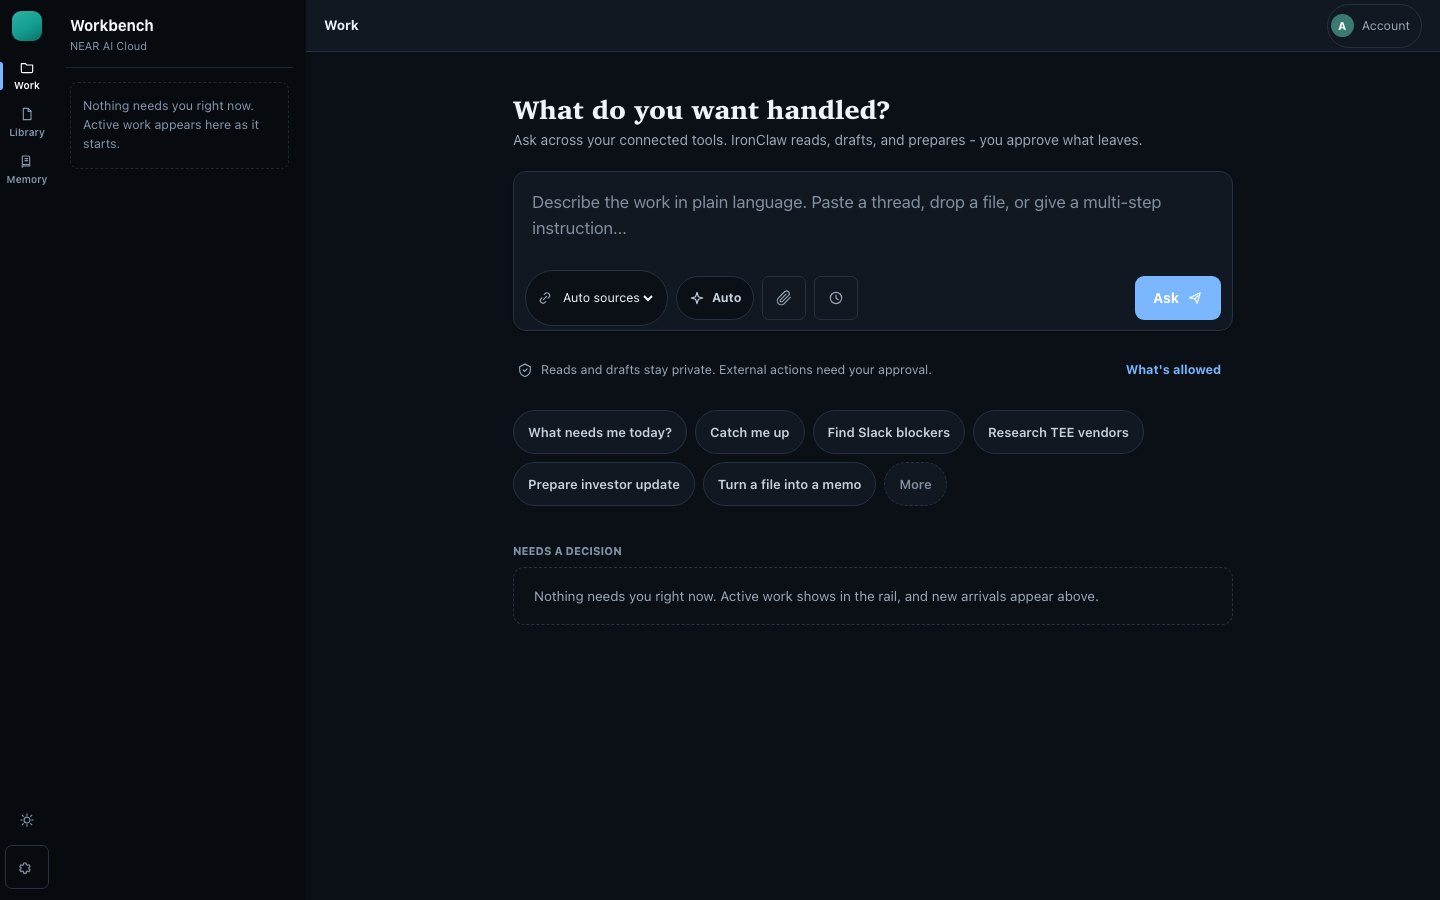
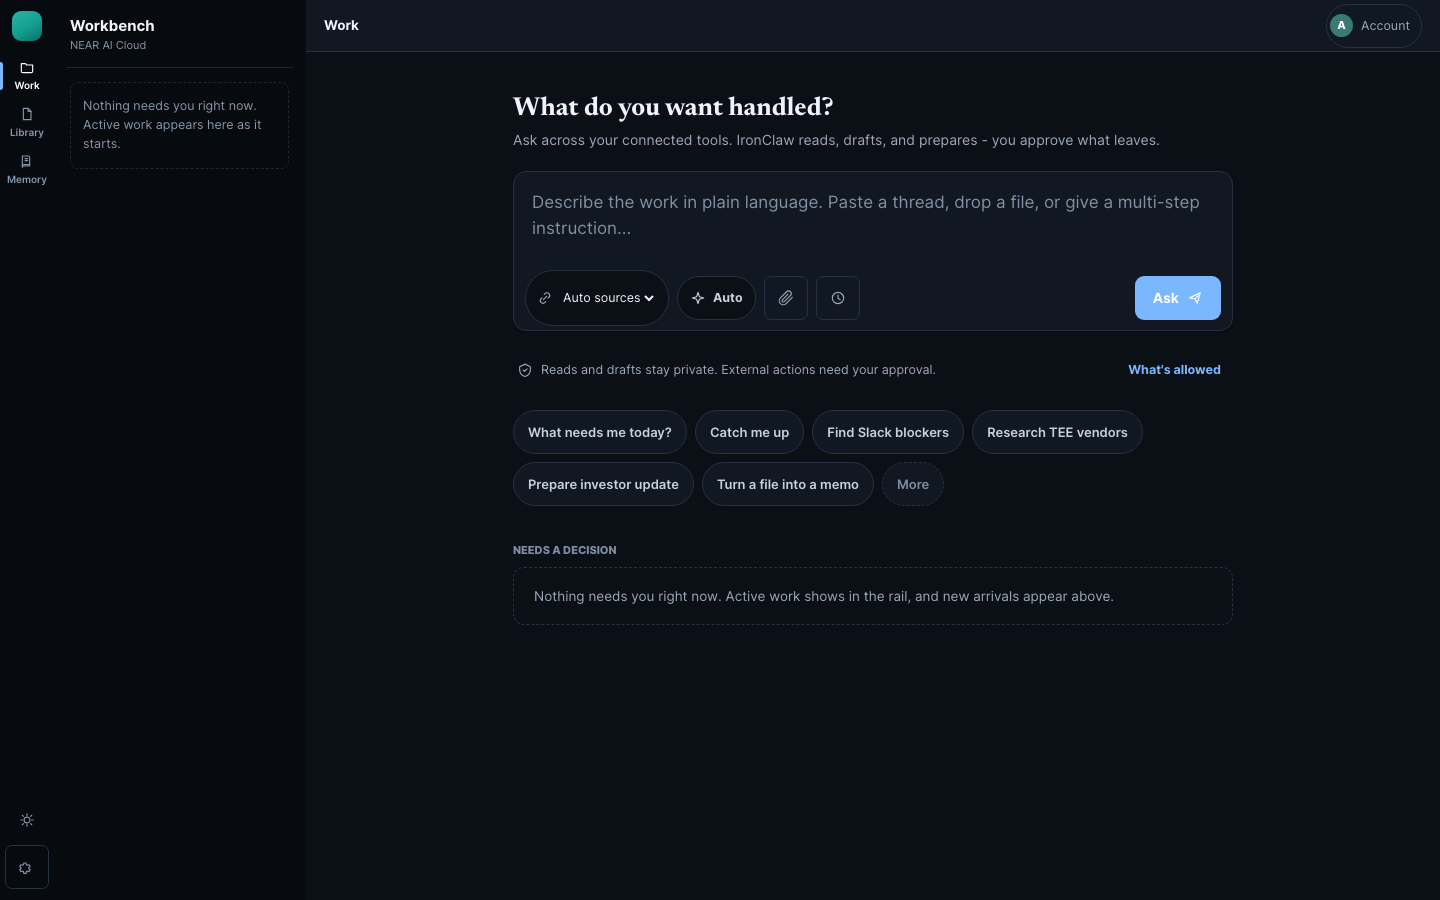
design: fix 'tired fonts' — self-host Newsreader + use real Inter Variable in Workbench
Root cause: the Workbench display token referenced 'Newsreader' with NO @user
(serif headers fell back to system Charter/Palatino = tired) and body used bare
'Inter' (not the loaded 'Inter Variable' → system-ui). Self-hosted Newsreader
(variable, OFL, 208KB) + pointed body at Inter Variable. Headers now render the
crisp editorial serif as designed. Gate: static 779, a11y 131, smoke. Re-captured
screenshots.

diff --git a/crates/ironclaw_webui_v2_static/static/styles/app.css b/crates/ironclaw_webui_v2_static/static/styles/app.css
@@ -16,6 +16,18 @@
   font-display: swap;
 }
 
+/* Newsreader (variable, opsz 6–72 / wght 400–700, OFL) — the editorial serif
+   the Workbench display scale was designed for. It was never self-hosted, so
+   serif headings silently fell back to system Charter/Palatino and read tired.
+   Self-host it so the v13 display face renders crisply. */
+@font-face {
+  font-family: "Newsreader";
+  src: url('../fonts/newsreader-variable.woff2') format('woff2-variations');
+  font-weight: 400 700;
+  font-style: normal;
+  font-display: swap;
+}
+
 /* ── Light theme ─────────────────────────────────────────────────── */
 :root {
   color-scheme: light;

diff --git a/tests/static/workbench-static.spec.ts b/tests/static/workbench-static.spec.ts
@@ -11,9 +11,12 @@ import {
 } from './workbench-static-fixtures';
 
 test('static workbench stylesheet: visual polish guards wrap detail text and dim disabled actions', () => {
-  expect(workbenchStylesSource).toContain('--wb-font-body: Inter, ui-sans-serif');
-  // v13 fidelity: the display face is the editorial serif (Newsreader), not Inter.
-  expect(workbenchStylesSource).toContain('--wb-font-display: Newsreader, ui-serif');
+  // Body uses the self-hosted "Inter Variable" face first (bare "Inter" never
+  // shipped, so it silently fell back to system-ui and read tired).
+  expect(workbenchStylesSource).toContain('--wb-font-body: "Inter Variable", Inter');
+  // v13 fidelity: the display face is the editorial serif (Newsreader), now
+  // self-hosted via @font-face so it no longer falls back to system Charter/Palatino.
+  expect(workbenchStylesSource).toContain('--wb-font-display: Newsreader, "Newsreader Variable"');
   expect(workbenchStylesSource).toContain('[data-theme="dark"] .wb13');
   expect(workbenchStylesSource).toContain('resize: none;');
   expect(workbenchStylesSource).toContain(

diff --git a/crates/ironclaw_webui_v2_static/static/js/main.bundle.js b/crates/ironclaw_webui_v2_static/static/js/main.bundle.js
@@ -4964,8 +4964,8 @@ ${de}`;if(L.current.gateKey!==Re&&(L.current={gateKey:Re,credentialRef:null,inFl
     </div>
   `}var JA=`
 .wb13 {
-  --wb-font-body: Inter, ui-sans-serif, system-ui, -apple-system, BlinkMacSystemFont, "Segoe UI", sans-serif;
-  --wb-font-display: Newsreader, ui-serif, Charter, "Iowan Old Style", "Palatino Linotype", serif;
+  --wb-font-body: "Inter Variable", Inter, ui-sans-serif, system-ui, -apple-system, BlinkMacSystemFont, "Segoe UI", sans-serif;
+  --wb-font-display: Newsreader, "Newsreader Variable", ui-serif, Charter, "Iowan Old Style", "Palatino Linotype", serif;
   --wb-font-mono: "JetBrains Mono", ui-monospace, SFMono-Regular, Menlo, Monaco, Consolas, monospace;
   --wb-surface: #f7f8f6;
   --wb-canvas: #ffffff;

diff --git a/crates/ironclaw_webui_v2_static/static/js/pages/workbench/styles/tokens.js b/crates/ironclaw_webui_v2_static/static/js/pages/workbench/styles/tokens.js
@@ -1,7 +1,7 @@
 export const WORKBENCH_TOKENS_STYLE = `
 .wb13 {
-  --wb-font-body: Inter, ui-sans-serif, system-ui, -apple-system, BlinkMacSystemFont, "Segoe UI", sans-serif;
-  --wb-font-display: Newsreader, ui-serif, Charter, "Iowan Old Style", "Palatino Linotype", serif;
+  --wb-font-body: "Inter Variable", Inter, ui-sans-serif, system-ui, -apple-system, BlinkMacSystemFont, "Segoe UI", sans-serif;
+  --wb-font-display: Newsreader, "Newsreader Variable", ui-serif, Charter, "Iowan Old Style", "Palatino Linotype", serif;
   --wb-font-mono: "JetBrains Mono", ui-monospace, SFMono-Regular, Menlo, Monaco, Consolas, monospace;
   --wb-surface: #f7f8f6;
   --wb-canvas: #ffffff;